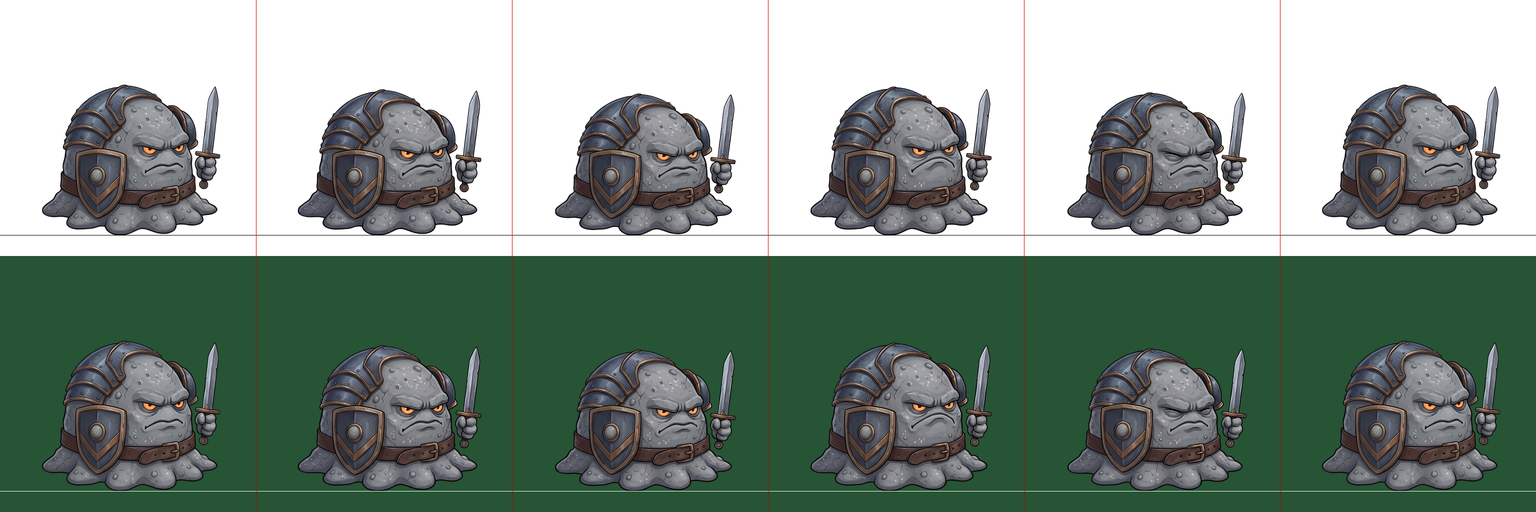
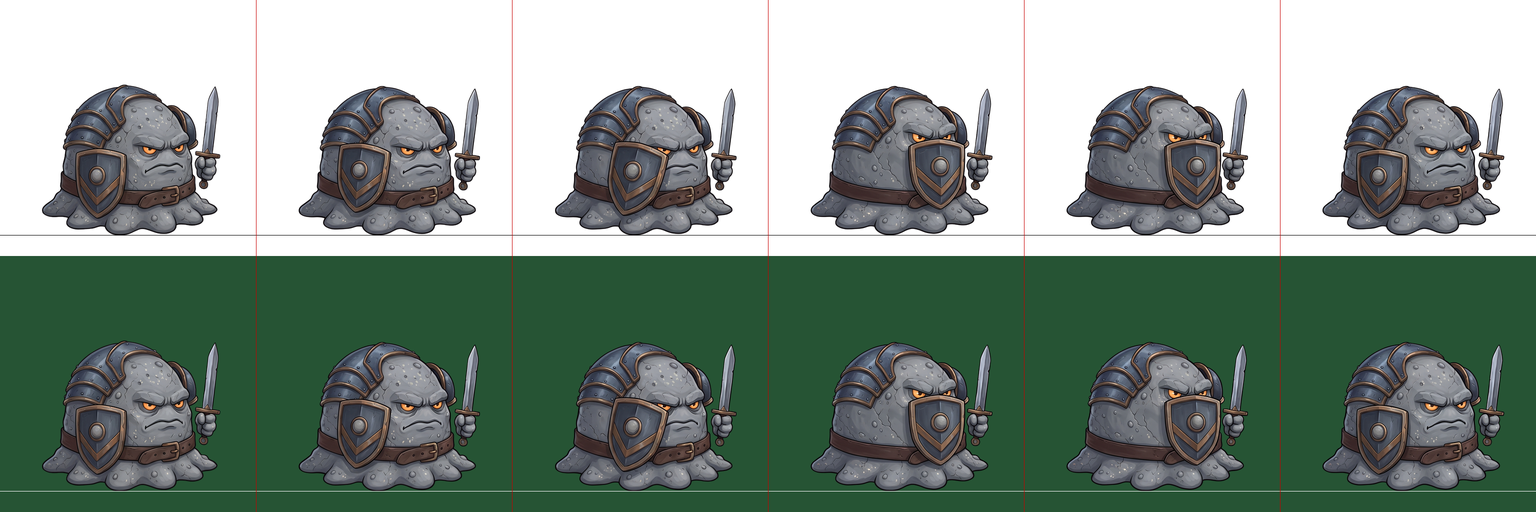
Elite slime: Stone Guard second sheet (ChatGPT) cut and in the page, the shield really rises; guardAct rewritten (plays 1,2,3,4,5,3,6, the shield light follows the shield); Gemini version archived

diff --git a/source/src/warrior-vs-goblin-test.src.html b/source/src/warrior-vs-goblin-test.src.html
@@ -5298,7 +5298,7 @@
                   slam: { n: 8, fps: 12, holds: [0.9, 1, 1, 1.2, 1.3, 1.7, 1.4, 1] },   // slam = the Granite Ram (8 frames, the strike is frame 6)
                   bounce: { n: 8, fps: 12, holds: null },   // bounce = the Rockfall Drop (8 frames: dropAct shows them one by one, the crash is frame 5)
                   eruption: { n: 6, fps: 12, holds: [1, 1.6, 1.1, 3.4, 1.4, 1.4] },   // eruption = the Earthbreaker
-                  guard: { n: 6, fps: 10, holds: [1, 1.2, 1.5, 2.4, 2.4, 1.3] } };   // guard = the Stone Guard (6 frames: rest, brace, guard rising, held, hold, relax; the page adds the lean, the hunker and the shield's light) (6 frames: gather, raise, the blade into the floor, strain (the hit frame 4), pull, recover)
+                  guard: { n: 6, fps: 10, holds: [1, 1.2, 1.5, 2.4, 2.4, 1.3] } };   // guard = the Stone Guard (6 frames, the ChatGPT sheet: rest, the shield a little higher, across the body, in front of the face (held twice), home; guardAct plays 1, 2, 3, 4, 5, 3, 6 with its own holds) (6 frames: gather, raise, the blade into the floor, strain (the hit frame 4), pull, recover)
     MONSTERS.elite_slime.packs = build(ELITE_ANIMS, DEFE); MONSTERS.elite_slime.attackPack = MONSTERS.elite_slime.packs.attack; MONSTERS.elite_slime.melee = true;
   })();
   var GOBLIN_PH = '<div class="ph goblin" style="--c:#8bcf5e"><div class="head"></div><div class="torso"></div><div class="tag">GOBLIN</div></div>';
@@ -7403,34 +7403,38 @@
     }
   }
   // ---------------------------------------------------------------- the Elite slime's Stone Guard (2026-11-10)
-  // The Elite's fifth skill, a SELF BUFF with no target (the sheet: Animations/EliteSlime/stone_guard, the user's Gemini sheet, 6 frames at 10 fps, the slot `guard`). The prompt asked the shield to slide up to the nose, but
-  // the generator drew six almost identical poses: the shield stays at the lower left of the body, the body hunkers a few percent and the brow lowers (frames 2 to 5, 4 and 5 the hardest glare). So the page adds what the
-  // sheet lacks, all rigid-stone motion: the sprite is turned forward about its base (CSS rotate, GUARD_LEAN degrees per frame) and lowered a little (CSS scale, GUARD_SY / GUARD_SX), a puff of dust is pushed out at its feet
-  // (it digs in), and THE SHIELD LIGHTS UP: an outline in cool steel-blue that flares (frame 3), two rings that leave the shield and widen, a bright band that sweeps across it (frames 3 and 4), then a faint pulsing edge that
-  // stays for as long as the buff does (GUARD_TURNS of its own turns; the page only DRAWS the buff, the game applies the numbers: Defense up). The glow is a DOM layer inside the sprite (so it leans and breathes with it)
-  // placed from placement.shield (the shield's box in the 512 cell). A DEFENSE UP number appears at the held frame. Nothing is dealt: no target, no damage.
-  var GUARD_LEAN = [0, 2, 4, 6, 6, 1], GUARD_SY = [1, 0.97, 0.94, 0.92, 0.92, 0.98], GUARD_SX = [1, 1.01, 1.02, 1.03, 1.03, 1.005], GUARD_TURNS = 2;
-  var GUARD_PATH = "M153,300 L249,300 L249,371 Q241,421 201,438 Q161,421 153,371 Z";   // the heater shield in the 512 cell (matched to the idle's rest frame: box 150, 296, 102 x 144)
-  function guardGlowEl() {                                                           // the shield's light: a DOM layer (inside the sprite, so it moves with it), the SVG in the 512 cell's own coordinates
+  // The Elite's fifth skill, a SELF BUFF with no target (the sheet: Animations/EliteSlime/stone_guard, the user's SECOND try, a ChatGPT sheet, 6 frames at 10 fps, the slot `guard`; the first, Gemini's, drew six almost identical
+  // poses and the shield never moved, see old_gemini_version/). In this one THE SHIELD REALLY RISES: it floats up from the lower left of the body (1 rest, 2 a little higher and to the right, 3 across the front of the
+  // body, partly over the left eye) to stand in front of the face in frames 4 and 5 (covering the mouth and the lower cheeks, the eyes glaring over its top edge) and is back at its rest place in frame 6 (the generator drew
+  // it all the way back, not halfway). The page plays 1, 2, 3, 4, 5, 3, 6 (GUARD_ORDER): frame 3 again on the way back, so the shield drifts down instead of snapping. What the page adds is small: a little rigid-stone lean
+  // and hunker (CSS rotate / scale, GUARD_LEAN / GUARD_SY: the sheet's body only lowers about 3 px), dust pushed out at its feet at the brace, and THE SHIELD'S LIGHT, which now follows the shield: a DOM layer inside the sprite
+  // (an SVG in the 512 cell's own coordinates, a unit-square shield path moved and scaled to the shield's box in each frame, GUARD_BOXES, measured by template) with a steel-blue outline that flares when the shield arrives
+  // at the face (frame 4), a bright band sweeping across it, two rings that leave it, then a faint pulsing edge back at the rest place for as long as the buff lasts (GUARD_TURNS of the Elite's own turns; the page only DRAWS
+  // the buff, the game applies the numbers: Defense up). A DEFENSE UP number appears at the held frame. Nothing is dealt: no target, no damage.
+  var GUARD_ORDER = [0, 1, 2, 3, 4, 2, 5], GUARD_HOLDS = [1, 1.2, 1.3, 2.4, 2.4, 1.1, 1.3];
+  var GUARD_LEAN = [0, 1, 2, 3, 3, 2, 0], GUARD_SY = [1, 0.99, 0.98, 0.96, 0.96, 0.98, 1], GUARD_SX = [1, 1.005, 1.01, 1.015, 1.015, 1.01, 1], GUARD_TURNS = 2;
+  var GUARD_BOXES = [[150, 296, 102, 142], [165, 288, 97, 142], [193, 285, 120, 150], [285, 280, 111, 140], [285, 280, 111, 140], [152, 298, 102, 140]];   // the shield's box (x, y, w, h) in the 512 cell, per sheet frame
+  var GUARD_UNIT = "M.03,.03 L.97,.03 L.97,.52 Q.89,.87 .5,.99 Q.11,.87 .03,.52 Z";   // a heater shield in the unit square
+  function guardGlowEl() {                                                           // the shield's light: a DOM layer (inside the sprite, so it moves with it), an SVG in the 512 cell's coordinates
     var d = document.createElement("div"); d.className = "guardglow"; d.style.cssText = "position:absolute;inset:0;pointer-events:none";
-    d.innerHTML = '<svg viewBox="0 0 512 512" style="position:absolute;inset:0;width:100%;height:100%;overflow:visible">' +
-      '<defs><clipPath id="gdclip"><path d="' + GUARD_PATH + '"/></clipPath></defs>' +
-      '<path class="gd-fill" d="' + GUARD_PATH + '" fill="rgba(150,200,255,0.5)" style="opacity:0"/>' +
-      '<g clip-path="url(#gdclip)"><g transform="rotate(20 200 370)"><rect class="gd-sweep" x="110" y="250" width="34" height="260" fill="rgba(238,247,255,0.8)" style="opacity:0"/></g></g>' +
-      '<path class="gd-ring" d="' + GUARD_PATH + '" fill="none" stroke="rgba(190,225,255,0.95)" stroke-width="3" style="transform-box:fill-box;transform-origin:50% 50%;opacity:0"/>' +
-      '<path class="gd-edge" d="' + GUARD_PATH + '" fill="none" stroke="rgba(176,216,255,0.95)" stroke-width="3.5" stroke-linejoin="round" style="opacity:0;filter:drop-shadow(0 0 5px rgba(120,185,255,0.95))"/></svg>';
+    d.innerHTML = '<svg viewBox="0 0 512 512" style="position:absolute;inset:0;width:100%;height:100%;overflow:visible"><g class="gd-move" transform="translate(152,298) scale(102,140)">' +
+      '<defs><clipPath id="gdclip"><path d="' + GUARD_UNIT + '"/></clipPath></defs>' +
+      '<path class="gd-fill" d="' + GUARD_UNIT + '" fill="rgba(150,200,255,0.5)" style="opacity:0"/>' +
+      '<g clip-path="url(#gdclip)"><g transform="rotate(20 .5 .5)"><rect class="gd-sweep" x="-.2" y="-.4" width=".22" height="1.8" fill="rgba(238,247,255,0.8)" style="opacity:0"/></g></g>' +
+      '<path class="gd-ring" d="' + GUARD_UNIT + '" fill="none" stroke="rgba(190,225,255,0.95)" stroke-width="2" vector-effect="non-scaling-stroke" style="transform-box:fill-box;transform-origin:50% 50%;opacity:0"/>' +
+      '<path class="gd-edge" d="' + GUARD_UNIT + '" fill="none" stroke="rgba(176,216,255,0.95)" stroke-width="2.2" stroke-linejoin="round" vector-effect="non-scaling-stroke" style="opacity:0;filter:drop-shadow(0 0 4px rgba(120,185,255,0.95))"/></g></svg>';
     return d;
   }
   function guardQ(g, c) { return g.querySelector(".gd-" + c); }
+  function guardPlace(g, fi) { var b = GUARD_BOXES[fi]; guardQ(g, "move").setAttribute("transform", "translate(" + b[0] + "," + b[1] + ") scale(" + b[2] + "," + b[3] + ")"); }
   function guardFlare(g, strong) {                                                    // the edge flares and settles, the fill blinks, one ring leaves the shield and widens
     anim(guardQ(g, "edge"), [{ opacity: 0.2 }, { opacity: 1, offset: 0.25 }, { opacity: 0.6 }], 520).catch(function () {});
-    anim(guardQ(g, "fill"), [{ opacity: 0 }, { opacity: strong ? 0.55 : 0.35, offset: 0.2 }, { opacity: 0 }], 520).catch(function () {});
-    anim(guardQ(g, "ring"), [{ opacity: 0.85, transform: "scale(1)" }, { opacity: 0, transform: "scale(" + (strong ? 1.5 : 1.35) + ")" }], 560, "ease-out").catch(function () {});
+    anim(guardQ(g, "fill"), [{ opacity: 0 }, { opacity: strong ? 0.5 : 0.3, offset: 0.2 }, { opacity: 0 }], 520).catch(function () {});
+    anim(guardQ(g, "ring"), [{ opacity: 0.85, transform: "scale(1)" }, { opacity: 0, transform: "scale(" + (strong ? 1.45 : 1.3) + ")" }], 560, "ease-out").catch(function () {});
     guardQ(g, "edge").style.opacity = 0.6;
   }
-  function guardSweep(g, ms) {                                                        // the bright band runs across the shield, clipped to it
-    var r = guardQ(g, "sweep");
-    anim(r, [{ opacity: 0, transform: "translateX(0px)" }, { opacity: 1, transform: "translateX(40px)", offset: 0.25 }, { opacity: 1, transform: "translateX(150px)", offset: 0.75 }, { opacity: 0, transform: "translateX(190px)" }], ms, "ease-in-out").catch(function () {});
+  function guardSweep(g, ms) {                                                        // the bright band runs across the shield (unit square), clipped to it
+    anim(guardQ(g, "sweep"), [{ opacity: 0, transform: "translateX(0px)" }, { opacity: 1, transform: "translateX(0.2px)", offset: 0.25 }, { opacity: 1, transform: "translateX(0.9px)", offset: 0.75 }, { opacity: 0, transform: "translateX(1.2px)" }], ms, "ease-in-out").catch(function () {});
   }
   function guardRest(g) {                                                             // the buff's faint aura: the edge breathes while the status lasts
     var ed = guardQ(g, "edge");
@@ -7450,43 +7454,43 @@
       }
     } });
   }
-  function applyGuard(A, turns, g) {                                                  // Defense up (drawn only): the shield's faint aura and a number; it runs down with the Elite's own turns (tickStatuses)
-    if (A.guard) { A.guard.turns = turns; A.guard.fresh = true; return; }
-    A.guard = { turns: turns, fresh: true, el: g }; guardRest(g);
-  }
+  function clearGuardEl(g) { if (g && g.parentNode) { try { g.animate([{ opacity: 1 }, { opacity: 0 }], 300).finished.then(function () { if (g.parentNode) g.parentNode.removeChild(g); }, function () { if (g.parentNode) g.parentNode.removeChild(g); }); } catch (er) { g.parentNode.removeChild(g); } } }
   function clearGuard(A) {
     if (!A.guard) return;
-    var g = A.guard.el; A.guard = null;
-    if (g && g.parentNode) { try { g.animate([{ opacity: 1 }, { opacity: 0 }], 300).finished.then(function () { if (g.parentNode) g.parentNode.removeChild(g); }, function () { if (g.parentNode) g.parentNode.removeChild(g); }); } catch (er) { g.parentNode.removeChild(g); } }
+    var g = A.guard.el; A.guard = null; clearGuardEl(g);
   }
   async function guardAct(e, myRun, A, T) {
-    var pk = monPackOf("guard"), u = uW.offsetWidth, n = pk.n, fm = 1000 / pk.fps / speed, starts = [], tot = 0, i, pv = !!e.preview, el = monEl;
-    for (i = 0; i < n; i++) { starts.push(tot); tot += fm * ((pk.holds && pk.holds[i]) || 1); }
+    var pk = monPackOf("guard"), u = uW.offsetWidth, n = GUARD_ORDER.length, fm = 1000 / pk.fps / speed, starts = [], tot = 0, i, pv = !!e.preview, el = monEl;
+    for (i = 0; i < n; i++) { starts.push(tot); tot += fm * GUARD_HOLDS[i]; }
     var t0 = performance.now(), r0 = rectIn(el), cx = r0.left + r0.width / 2, gy = r0.top + r0.height - r0.width * 42 / 512;
     var g = A.guard ? A.guard.el : guardGlowEl();
     if (!g.parentNode) el.appendChild(g);
-    var played = monPlayPack(pk, myRun, function (k) {                                // the lean and the hunker, frame by frame
-      el.style.rotate = (A.dir * GUARD_LEAN[k]) + "deg"; el.style.scale = GUARD_SX[k] + " " + GUARD_SY[k];
-    });
+    if (g.getAnimations) g.getAnimations({ subtree: true }).forEach(function (a) { a.cancel(); });          // (the resting pulse of an earlier cast must not fight the flares)
+    guardPlace(g, 0);
+    var played = monPlayPack(pk, myRun, function (k) {                                // the lean and the hunker, and the light on the shield, step by step
+      el.style.rotate = (A.dir * GUARD_LEAN[k]) + "deg"; el.style.scale = GUARD_SX[k] + " " + GUARD_SY[k]; guardPlace(g, GUARD_ORDER[k]);
+    }, GUARD_HOLDS, GUARD_ORDER);
     await bsWait(t0 + starts[1]);                                                     // 2. brace: it digs in
     if (myRun !== run) return;
     guardDustFx(performance.now(), cx, gy, u); shake(2, 200);
-    await bsWait(t0 + starts[2]);                                                     // 3. the shield wakes
+    await bsWait(t0 + starts[2]);                                                     // 3. the shield crosses the body
     if (myRun !== run) return;
-    guardFlare(g, false); guardSweep(g, 1000 / pk.fps * 4.2);
-    await bsWait(t0 + starts[3]);                                                     // 4. the guard held
+    guardFlare(g, false);
+    await bsWait(t0 + starts[3]);                                                     // 4. the shield arrives at the face: the guard
     if (myRun !== run) return;
-    guardFlare(g, true);
+    guardFlare(g, true); guardSweep(g, 1000 / pk.fps * 4.8);
     await bsWait(t0 + starts[4]);                                                     // 5. hold: the number
     if (myRun !== run) return;
     if (!pv) { floatNumber(A, "DEFENSE UP", "guard"); say(A.name + " hunkers down behind its shield: Defense raised for " + GUARD_TURNS + " turns (Stone Guard).", "g"); }
     await played;
     if (myRun !== run) return;
-    if (pv) { clearGuardEl(g); } else applyGuard(A, GUARD_TURNS, g);
+    guardPlace(g, 5);                                                                 // the shield is home again: the faint aura stays there
+    if (g.getAnimations) g.getAnimations({ subtree: true }).forEach(function (a) { a.cancel(); });
+    if (pv) clearGuardEl(g);
+    else { if (A.guard) { A.guard.turns = GUARD_TURNS; A.guard.fresh = true; } else A.guard = { turns: GUARD_TURNS, fresh: true, el: g }; guardRest(g); }
     uG.style.transform = "";
     monStartIdle();
   }
-  function clearGuardEl(g) { if (g && g.parentNode) { try { g.animate([{ opacity: 1 }, { opacity: 0 }], 300).finished.then(function () { if (g.parentNode) g.parentNode.removeChild(g); }, function () { if (g.parentNode) g.parentNode.removeChild(g); }); } catch (er) { g.parentNode.removeChild(g); } } }
   $("monFx").oninput = function () {
     var v = +this.value; $("monFxV").textContent = v + "%";
     try { localStorage.setItem("wvg-monster-fire-" + monKey, v); } catch (e) {}

diff --git a/Animations/EliteSlime/source/cut_pack.py b/Animations/EliteSlime/source/cut_pack.py
@@ -43,11 +43,12 @@ JOBS = {
     # panel 6's size), so every panel gets its own scale = 0.425 / that factor (0.425 = the shield's scale from the sheet to the idle's rest frame, matched by template); the stone arms in panels 2 and 5 are painted out first (earthbreaker_prep.py)
     "earthbreaker": dict(file="elite_slime_earth_breaker.jpg", folder="earthbreaker", mode="shared", rows=[3, 3], airborne=[], swap=[0, 5], fps=12, mul={}, dx={}, prep="earthbreaker_prep",
                          scales=[0.472, 0.462, 0.457, 0.438, 0.434, 0.425], extra={"hitFrame": 4, "swordFoot": {"x": 420, "y": 460}}),     # swordFoot: where the blade enters the floor (frames 3 to 5)
-    # the Stone Guard (2026-11-10, the user's Gemini sheet, 2752 x 1536, 3 x 2): the six panels are almost the same pose (the generator did NOT slide the shield up: it stays at the lower left of the body in every panel; the body hunkers
-    # only a few percent and the brow lowers), so the shield's rise is not in the sheet. Panels 1 and 6 are replaced by the idle's rest frame (the pack starts and ends on the idle, no pop); the others are scaled by the rigid
-    # shield (0.435 = the shield's scale from the sheet to the idle's rest frame; panel 6 was drawn 6% bigger). extra.shield: the shield's box in the 512 cell (matched to the idle's rest frame) where the page puts its glow.
-    "stone_guard": dict(file="elite_slime_stone_guard.jpg", folder="stone_guard", mode="shared", rows=[3, 3], airborne=[], swap=[0, 5], fps=10, mul={}, dx={},
-                        scales=[0.435, 0.439, 0.426, 0.426, 0.418, 0.410], extra={"shield": {"x": 150, "y": 296, "w": 102, "h": 144}}),
+    # the Stone Guard (2026-11-10). FIRST the user's Gemini sheet (old_gemini_version/): six almost identical poses, the shield never moved (rejected_gemini_sheet.jpg), so the page faked the guard in code.
+    # THEN the user's ChatGPT second try (elite_slime_stone_guard_alternate.jpg, 2528 x 1696, 3 x 2): THE SHIELD REALLY RISES (frames 4 and 5 it floats in front of the face, covering the mouth and lower cheeks). Panel 1 is replaced
+    # by the idle's rest frame; every panel is scaled by 0.46 (the shield's scale from the sheet to the idle's rest frame, matched by template; the shield measures 0.97 to 1.02 of panel 1's in the others: no size drift).
+    "stone_guard": dict(file="elite_slime_stone_guard_alternate.jpg", folder="stone_guard", mode="shared", rows=[3, 3], airborne=[], swap=[0], fps=10, mul={}, dx={},
+                        scales=[0.46, 0.46, 0.46, 0.46, 0.46, 0.46],
+                        extra={"playOrder": [0, 1, 2, 3, 4, 2, 5], "shieldBoxes": [[150, 296, 102, 142], [165, 288, 97, 142], [193, 285, 120, 150], [285, 280, 111, 140], [285, 280, 111, 140], [152, 298, 102, 140]]}),     # shieldBoxes: the shield (x, y, w, h) in the 512 cell per frame (template match + by eye)
     "shield_bash": dict(file="elite_slime_shield_bash_chatgpt.png", folder="shield_bash", mode="shared", rows=[4, 4], airborne=[], swap=[], fps=12, mul={}, dx={}, front=6,
                         extra={"hitFrame": 6}),
 }

diff --git a/docs/MONSTERS.md b/docs/MONSTERS.md
@@ -527,3 +527,10 @@ The sheet (`inbox/Elite_slime_animations/elite_slime_stone_guard.jpg`, 2752 x 15
 ### Elite Stone Guard: second-try prompt for ChatGPT written (2026-11-10)
 
 The user chose 'write the prompt' (the shield did not rise in the Gemini sheet). **`Animations/EliteSlime/stone_guard/source/stone_guard_chatgpt_prompt.txt`**: for ChatGPT (it obeyed size and spacing in the Shield Bash), one reference image (reference_image.png), 3 x 2, six frames, built around one sentence said first, in the middle and last: THE SHIELD MOVES, floating up in front of the face (panel 4 and 5: covers the mouth and lower cheeks, top edge just under the eyes) like the fist floats, with no hand or arm. Each panel's shield position is given against the face (centre under the left eye in 3, under the middle of the face in 4 and 5, halfway back in 6); the place the shield leaves must show bare stone and the belt running on unbroken (no ghost, no second shield); the body moves little (4% to 9% lower, 3 to 6 degrees); the ready-made 'redo it' replies cover: the shield did not move, a second shield, the eyes covered, a hand or arm on the shield, size or shape changing, a glow. What I check when the sheet comes: panel 4 against panel 1 first. If it arrives: cut it with `cut_pack.py stone_guard` (the same job, the new file name), and the page's lean, hunker and glow in `guardAct` are reduced or removed because the sheet then carries the motion (the DEFENSE UP number, the status and the faint aura stay). If it fails again, the code version in the page stays.
+
+### Elite Stone Guard: the user's ChatGPT second try WORKS, the shield really rises (2026-11-10)
+
+The sheet (`inbox/Elite_slime_animations/elite_slime_stone_guard_alternate.jpg`, 2528 x 1696, 3 x 2, magenta; copy `Animations/EliteSlime/stone_guard/source/stone_guard_sheet.jpg`) is the second try from `stone_guard_chatgpt_prompt.txt`. **It does what the Gemini sheet could not:** 1 rest (the shield at the lower left); 2 the shield a little higher and to the right; 3 the shield across the front of the body, partly over the left eye (a passing frame: the prompt wanted it under the eye); **4 and 5 THE GUARD: the shield stands in front of the face, covering the mouth and the lower cheeks, the eyes glaring over its top edge, the belt running on unbroken where it was, no ghost shield**; 6 the shield back at its rest place (the prompt asked halfway: it came all the way home) and the stern glare. The shield is slightly turned to the viewer in 3 to 5 (wider: 111 to 120 px in the cell against 102 at rest). Like the ChatGPT Shield Bash, **the creature is the same size in every panel** (base 769 to 770 px in all six, where Gemini drifted 8 to 10%): one scale for all, 0.46 (the shield's scale from the sheet to the idle's rest frame, matched by template). The body only lowers about 3 px (asked 9%). The fist floats clear of the shield in every panel.
+**Cut: `cut_pack.py stone_guard`** (rows [3, 3], `scales` all 0.46, `swap [0]`: panel 1 is the idle's rest frame; panel 6 is kept: its shield is within 3 px of the rest place). The Gemini version is kept in `stone_guard/old_gemini_version/` (strip, placement, check) and `source/rejected_gemini_sheet.jpg`. The placement has `playOrder` [0, 1, 2, 3, 4, 2, 5] and `shieldBoxes` (the shield's box x, y, w, h in the cell per frame: rest 150, 296, 102 x 142; 2: 165, 288, 97 x 142; 3: 193, 285, 120 x 150; 4 and 5: 285, 280, 111 x 140; 6: 152, 298, 102 x 140: template match for the position, by eye for the width where the shield is turned).
+**In the page: `guardAct` rewritten for the real motion.** It plays **1, 2, 3, 4, 5, 3, 6** (GUARD_ORDER, holds 1, 1.2, 1.3, 2.4, 2.4, 1.1, 1.3 at 10 fps, about 1.05 s): frame 3 again on the way back, because frame 5 to frame 6 is the whole way home in one step. **The code motion is reduced to a hint** (lean 0 to 3 degrees, hunker down to 0.96, GUARD_LEAN, GUARD_SY) because the sheet now carries the stance; the dust at the brace stays. **The shield's light now FOLLOWS the shield**: the SVG is a unit-square heater-shield path moved and scaled to each frame's box (`guardPlace`, non-scaling strokes), flaring (a steel-blue edge, a fill blink, a ring) when the shield crosses (3, weak) and arrives at the face (4, strong, with a bright band sweeping across it); then it returns to the rest place as the faint pulsing aura of the buff (2 of the Elite's turns). DEFENSE UP number, the log line, the drawn-only status (applyGuard folded into guardAct, clearGuard, tickStatuses, reset, defeat, next stage) are as before. **Checked in the browser pane** (clock stubbed): the frame order, lean, scale and the glow's transform at every step; a big view of frame 4 with the glow forced on (the outline matches the shield, the band sweeps inside it); fights with the Stone Guard chosen and with 'Alternate' (the number, the log, the aura gone after the defeat), no console errors; the WAAPI flares themselves cannot be watched in the pane. **Not judged by the user in motion yet.**
+**Lesson to carry on:** the same prompt idea works for any sheet in which a part must move on its own: say it is held by nothing (like the fist), give its place against the face, say what the place it leaves shows; ChatGPT keeps size and spacing.
